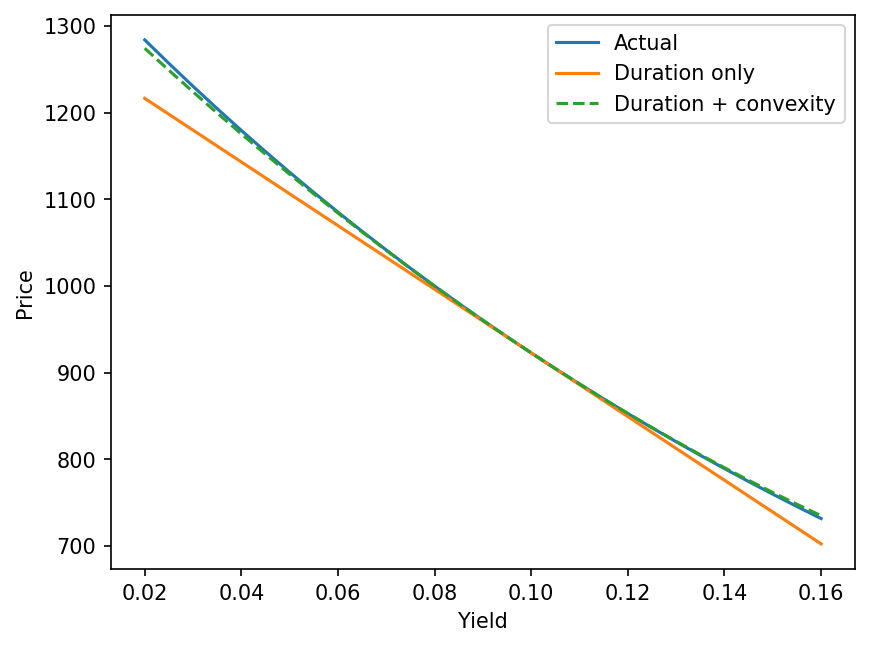
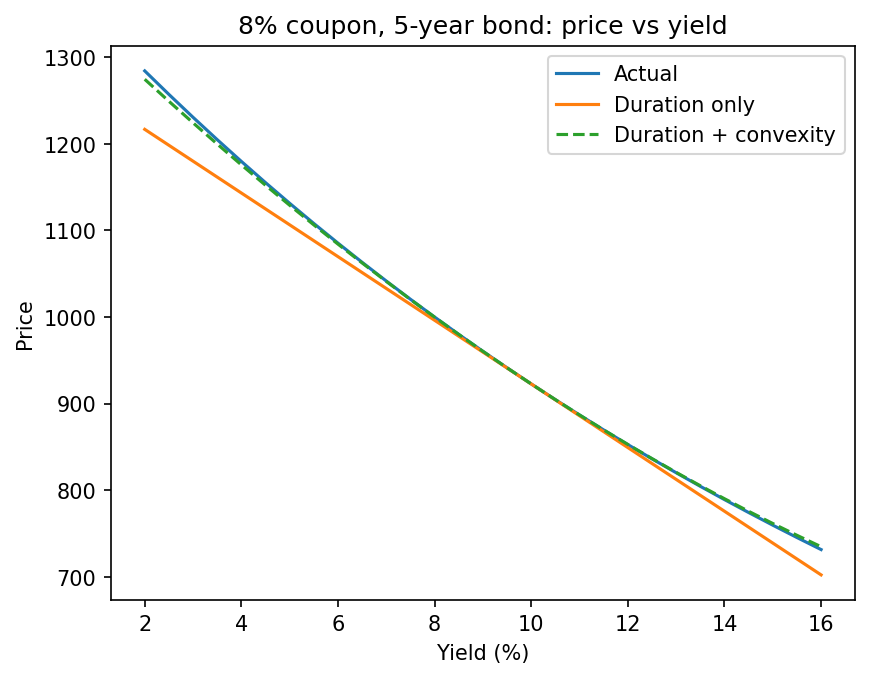
Improve chart, add pytest tests

diff --git a/test_bond_toolkit.py b/test_bond_toolkit.py
@@ -1,0 +1,42 @@
+from datetime import date
+from bond_toolkit import bond_price, accrued_interest, clean_dirty
+
+
+def test_price_discount_bond():
+    assert abs(bond_price(1000, 0.08, 0.10, 5) - 922.78) < 0.01
+
+
+def test_price_par_bond():
+    assert abs(bond_price(1000, 0.08, 0.08, 5) - 1000) < 1e-6
+
+
+def test_price_zero_yield():
+    assert abs(bond_price(1000, 0.08, 0.0, 5) - 1400) < 1e-6
+
+
+def test_accrued_matches_hand_calc():
+    assert abs(accrued_interest(1000, 0.08, date(2026, 1, 15), date(2026, 4, 15)) - 20) < 1e-9
+
+
+def test_clean_plus_accrued_equals_dirty():
+    clean, dirty, accrued = clean_dirty(1000, 0.08, 0.10, 9, date(2026, 1, 15), date(2026, 4, 15))
+    assert abs(clean + accrued - dirty) < 1e-9
+
+
+def test_on_coupon_date_matches_bond_price():
+    clean, dirty, accrued = clean_dirty(1000, 0.08, 0.10, 10, date(2026, 1, 15), date(2026, 1, 15))
+    assert accrued == 0
+    assert abs(clean - 922.7826507) < 1e-6
+
+
+def test_zero_coupon_has_no_accrued():
+    clean, dirty, accrued = clean_dirty(1000, 0.0, 0.10, 10, date(2026, 1, 15), date(2026, 4, 15))
+    assert accrued == 0
+
+
+def test_negative_yield_raises():
+    try:
+        clean_dirty(1000, 0.08, -0.01, 10, date(2026, 1, 15), date(2026, 1, 15))
+        assert False, "should have raised"
+    except ValueError:
+        pass

diff --git a/README.md b/README.md
@@ -28,6 +28,7 @@ At +200 bps: duration-only error -3.48, duration+convexity error 0.13.
 Results checked against Excel (PV, RATE, DURATION, MDURATION, ACCRINT) and 8 edge-case tests.
 
 ## Run it
+Requires: pandas, matplotlib, ipywidgets
 Open `07_demo.ipynb` in Jupyter.
 
 ## Limitations
